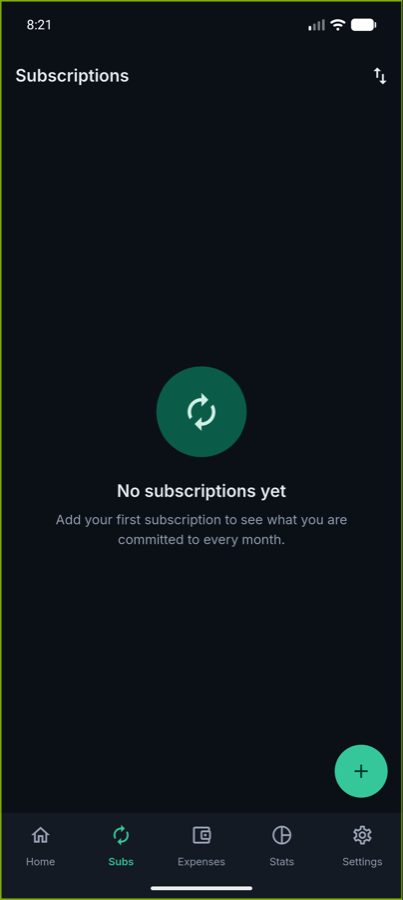
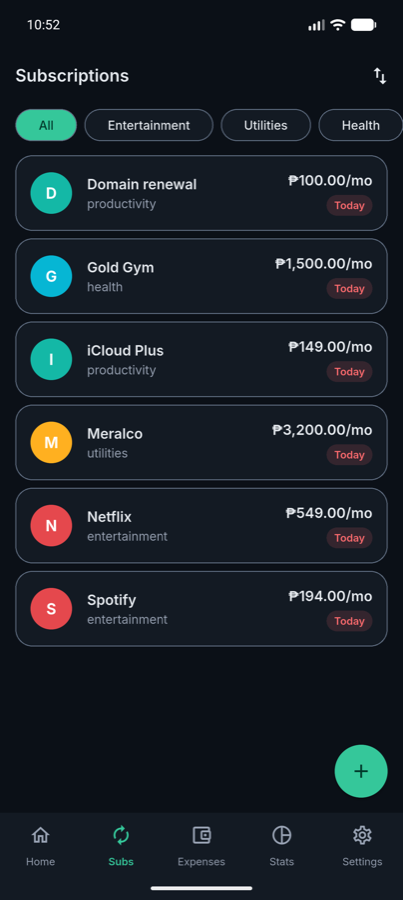
docs(readme): capture every screen with seeded sample data
- expand the gallery from 8 to 19 screenshots covering all 13 screens

- populate Dashboard, Subscriptions, Expenses and Stats with real records

- add Settings, subscription detail and both add/edit forms

- add onboarding and the full authentication trio

- caption each row with the decision it demonstrates

diff --git a/README.md b/README.md
@@ -25,16 +25,41 @@ A personal money tracker that puts your complete spending picture in one app: lo
 
 ## Screenshots
 
-Captured on a Pixel 10 Pro emulator. The same screens in both themes — the dark palette is *derived*, not hand-drawn: the brand green `#0E7A5F` is unreadable as text on dark, so dark mode shifts to a lighter tone `#35C79A` with dark text on it, preserving the hue while fixing contrast.
+Captured on a Pixel 10 Pro emulator with seeded sample data.
+
+### The app, in both themes
+
+The dark palette is *derived*, not hand-drawn: the brand green `#0E7A5F` is unreadable as text on dark, so dark mode shifts to a lighter tone `#35C79A` with dark text on it — the hue survives, the contrast is fixed.
 
 | | Light | Dark |
 |---|---|---|
-| **Dashboard** | <img src="docs/screenshots/light-home.png" width="220"> | <img src="docs/screenshots/dark-home.png" width="220"> |
-| **Subscriptions** | <img src="docs/screenshots/light-subs.png" width="220"> | <img src="docs/screenshots/dark-subs.png" width="220"> |
-| **Expenses** | <img src="docs/screenshots/light-expenses.png" width="220"> | <img src="docs/screenshots/dark-expenses.png" width="220"> |
-| **Stats** | <img src="docs/screenshots/light-stats.png" width="220"> | <img src="docs/screenshots/dark-stats.png" width="220"> |
+| **Dashboard** — spent today, monthly and yearly commitments, next payments | <img src="docs/screenshots/light-home.png" width="210"> | <img src="docs/screenshots/dark-home.png" width="210"> |
+| **Subscriptions** — filter chips derived from the data, sorted by next due | <img src="docs/screenshots/light-subs.png" width="210"> | <img src="docs/screenshots/dark-subs.png" width="210"> |
+| **Expenses** — date strip, day total, category icons and payment method | <img src="docs/screenshots/light-expenses.png" width="210"> | <img src="docs/screenshots/dark-expenses.png" width="210"> |
+| **Stats** — category donut with per-slice share, month stepper | <img src="docs/screenshots/light-stats.png" width="210"> | <img src="docs/screenshots/dark-stats.png" width="210"> |
+| **Settings** — currency, reminder lead time, theme, account deletion | <img src="docs/screenshots/light-settings.png" width="210"> | <img src="docs/screenshots/dark-settings.png" width="210"> |
 
-> These show a **new account**, so every screen is in its empty state. That is deliberate here — empty states are their own design surface in this app, and there are two of them per screen where it matters (the Expenses tab says *"Log your first expense for today"* on today and *"You did not record any spending on this day"* on a past day, because telling you to log today's expense while you browse last Tuesday is a lie). Screenshots with populated data are still to come.
+### Detail and entry
+
+| Subscription detail | Add expense | Add subscription |
+|---|---|---|
+| <img src="docs/screenshots/light-subscription-detail.png" width="210"> | <img src="docs/screenshots/light-add-expense.png" width="210"> | <img src="docs/screenshots/light-add-subscription.png" width="210"> |
+| Monthly **and** yearly cost, plus the next three renewals — all computed from `firstBillDate` + `billingCycle`, never stored | Amount autofocuses so logging takes two taps | Category, cycle, first bill date and reminder lead time |
+
+### First run
+
+| Onboarding | | |
+|---|---|---|
+| <img src="docs/screenshots/light-onboarding-1.png" width="210"> | <img src="docs/screenshots/light-onboarding-2.png" width="210"> | <img src="docs/screenshots/light-onboarding-3.png" width="210"> |
+| Track every subscription | Never miss a due date | See where your money goes |
+
+### Authentication
+
+| Sign in | Create account | Reset password |
+|---|---|---|
+| <img src="docs/screenshots/light-login.png" width="210"> | <img src="docs/screenshots/light-signup.png" width="210"> | <img src="docs/screenshots/light-forgot-password.png" width="210"> |
+
+Email/password and Google Sign-In, using Google's official mark. The reset and entry screens autofocus their first field, so the emulator's keyboard toolbar appears in those captures — that autofocus is deliberate, not an artefact.
 
 ## Tech Stack
 
